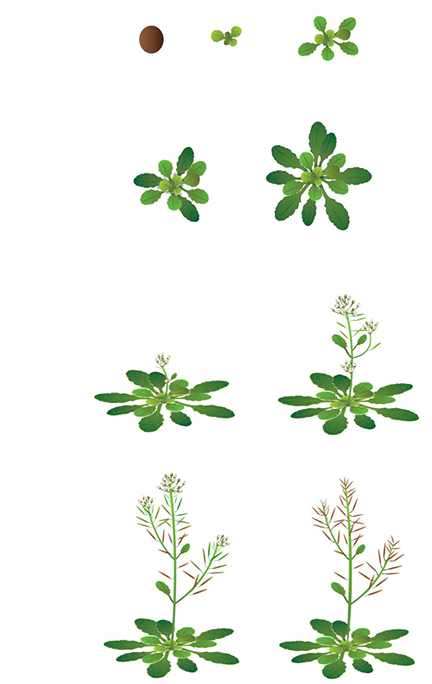
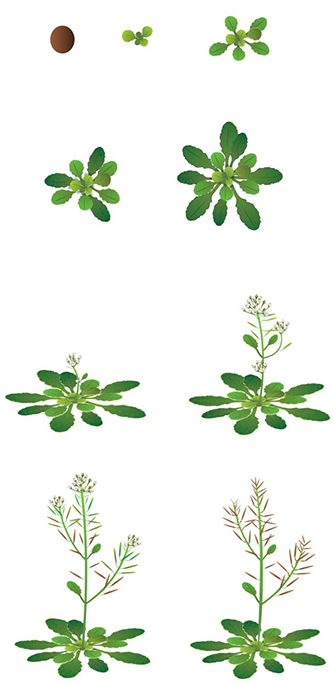
f

diff --git a/college-art-programs.html b/college-art-programs.html
@@ -48,12 +48,13 @@
         justify-items: center;
       }
       .project-grid-artprograms > * { width: 100%; }
-      .project-grid-artprograms .area-notebook { max-width: 440px; }
-      .project-grid-artprograms .area-phone { max-width: 440px; }
-      .project-grid-artprograms .area-poster { max-width: 440px; }
-      .project-grid-artprograms .area-folder-open { max-width: 660px; }
-      .project-grid-artprograms .area-folder-front { max-width: 440px; }
-      .project-grid-artprograms .area-folder-back { max-width: 440px; }
+      .project-grid-artprograms .area-notebook { max-width: 440px; order:2; }
+      .project-grid-artprograms .area-button { order: 3; }
+      .project-grid-artprograms .area-phone { max-width: 440px; order:7;}
+      .project-grid-artprograms .area-poster { max-width: 440px; order:1; }
+      .project-grid-artprograms .area-folder-open { max-width: 660px;order:4;}
+      .project-grid-artprograms .area-folder-front { max-width: 440px; order:5;}
+      .project-grid-artprograms .area-folder-back { max-width: 440px; order:6;}
     }
   </style>
 </head>
@@ -104,7 +105,7 @@
           <img src="images/hacc-art-folder-back.webp" alt="Folder held mockup">
         </div>
         <div class="project-cell area-folder-back" aria-label="Informational folder being held open placeholder">
-          <img src="images/hacc-art-folder-back.webp" alt="Folder held mockup">
+          <img src="images/hacc-art-folder-front.webp" alt="Folder held mockup">
         </div>
       </div>
     </div>

diff --git a/claire-lorts-rebrand.html b/claire-lorts-rebrand.html
@@ -55,10 +55,12 @@
         justify-items: center;
       }
       .project-grid-rebrand > * { width: 100%; }
-      .project-grid-rebrand .area-computer { max-width: 940px; }
-      .project-grid-rebrand .area-brandbook { max-width: 660px; }
-      .project-grid-rebrand .area-history { max-width: 320px; }
-      .project-grid-rebrand .area-typography { max-width: 320px; }
+      .project-grid-rebrand .area-computer { max-width: 940px; order:1;}
+      .project-grid-rebrand .area-btn-website { order: 2; }
+      .project-grid-rebrand .area-brandbook { max-width: 660px; order:3;}
+      .project-grid-rebrand .area-history { max-width: 320px; order:4;}
+      .project-grid-rebrand .area-typography { max-width: 320px; order:5;}
+      .project-grid-rebrand .area-button  { order:6; }
     }
   </style>
 </head>
@@ -106,7 +108,7 @@
         </div>
         <a href="https://www.clairelorts.com" target="_blank" rel="noopener noreferrer" class="btn-red area-btn-website">Visit The Website</a>
           <a href="https://online.fliphtml5.com/tefcf/Brand_Guide_cld/#p=1" target="_blank" rel="noopener noreferrer" class="btn-red area-button">View The Flipbook</a>
-        <a href="https://online.fliphtml5.com/tefcf/Brand_Guide_cld/#p=1" target="_blank" rel="noopener noreferrer" class="btn-red area-button">View The Flipbook</a>
+        
       </div>
     </div>
   </main>

diff --git a/arabidopsis.html b/arabidopsis.html
@@ -36,7 +36,7 @@
     .project-grid-arabidopsis .area-info-1 { grid-area: info-1; aspect-ratio: 1 / 3;}
     .project-grid-arabidopsis .area-info-2 { grid-area: info-2; aspect-ratio: 1 / 3.3; }
     .project-grid-arabidopsis .area-kit { grid-area: kit; aspect-ratio: 2.57 / 4; }
-    .project-grid-arabidopsis .area-plants { grid-area: plants; aspect-ratio: 1 / 1.6; }
+    .project-grid-arabidopsis .area-plants { grid-area: plants; aspect-ratio: 1 / 2; }
     .project-grid-arabidopsis .area-panorama { grid-area: panorama; aspect-ratio: 6.7 / 1; }
 
     .project-grid-arabidopsis .area-info-1 img,

diff --git a/college-onboarding.html b/college-onboarding.html
@@ -41,7 +41,7 @@
 .project-grid-onboarding .area-shirt-front {
   grid-area: shirt-front;
   aspect-ratio: 4 / 2.5;
-  max-width: 800px;
+  max-width: 900px;
 }
 .project-grid-onboarding .area-logos {
   grid-area: logos;
